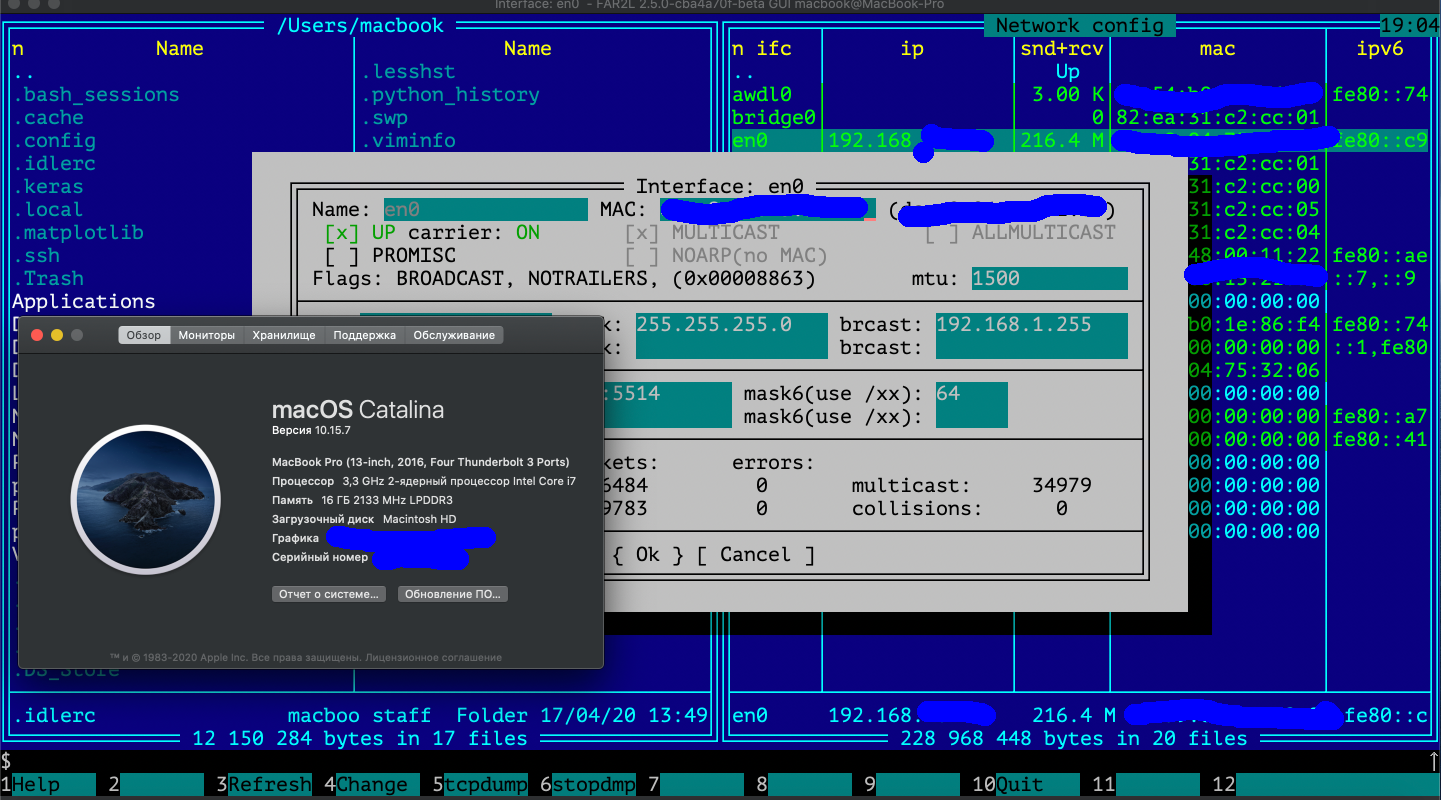
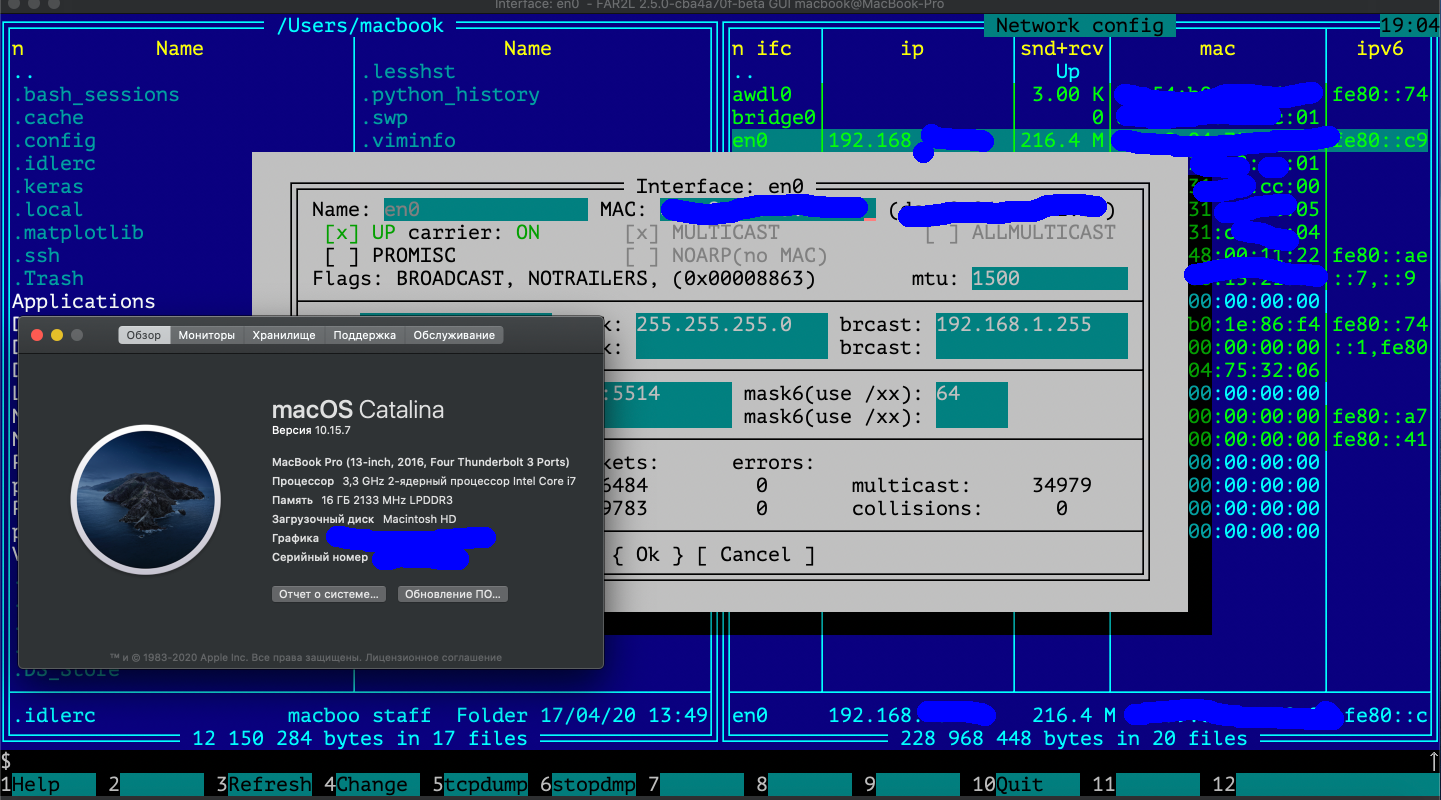
add macos support

Changed region(s): [[0.8119, 0.1875, 0.9056, 0.3125], [0.7495, 0.125, 0.9056, 0.1875]]

diff --git a/README.md b/README.md
@@ -8,7 +8,7 @@ If your want build inside other version far2l - put content ./src into ./far2l/n
 TODO:
 Apple not supported yet.
 
-![](img/tcpdump.png)
+![](img/macos.png)
 ![](img/tcpdumpstop.png)
 ![](img/main.png)
 ![](img/mainwide.png)
